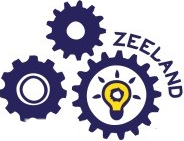
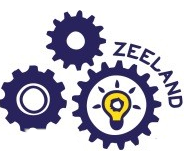
Fixed card img padding and gif issues

diff --git a/src/components/Education.vue b/src/components/Education.vue
@@ -14,8 +14,8 @@
             <b-col cols="12" md="9">
               <b-card-body title="Information Technology">
                 <b-card-text>
-                  Avans University, Breda<br />
-                  2017 - Now
+                  Avans University, Breda
+                  <br>2017 - Now
                 </b-card-text>
               </b-card-body>
             </b-col>
@@ -30,8 +30,8 @@
             <b-col cols="12" md="9">
               <b-card-body title="Application Development Internship">
                 <b-card-text>
-                  Fablab Zeeland, Middelburg<br />
-                  February - July 2016
+                  Fablab Zeeland, Middelburg
+                  <br>February - July 2016
                 </b-card-text>
               </b-card-body>
             </b-col>
@@ -46,8 +46,8 @@
             <b-col cols="12" md="9">
               <b-card-body title="Application Development Internship">
                 <b-card-text>
-                  Zuid-West Automatisering B.V., Middelburg<br />
-                  February - July 2015
+                  Zuid-West Automatisering B.V., Middelburg
+                  <br>February - July 2015
                 </b-card-text>
               </b-card-body>
             </b-col>
@@ -62,14 +62,13 @@
             <b-col cols="12" md="9">
               <b-card-body title="Application Development">
                 <b-card-text>
-                  Scalda, Vlissingen<br />
-                  2014 - 2017
+                  Scalda, Vlissingen
+                  <br>2014 - 2017
                 </b-card-text>
               </b-card-body>
             </b-col>
           </b-row>
         </b-card>
-
       </b-row>
     </b-container>
   </div>
@@ -84,5 +83,9 @@ export default {
 <style scoped>
 .card {
   margin: 10px;
+}
+
+.card-img {
+  padding: 10px;
 }
 </style>
